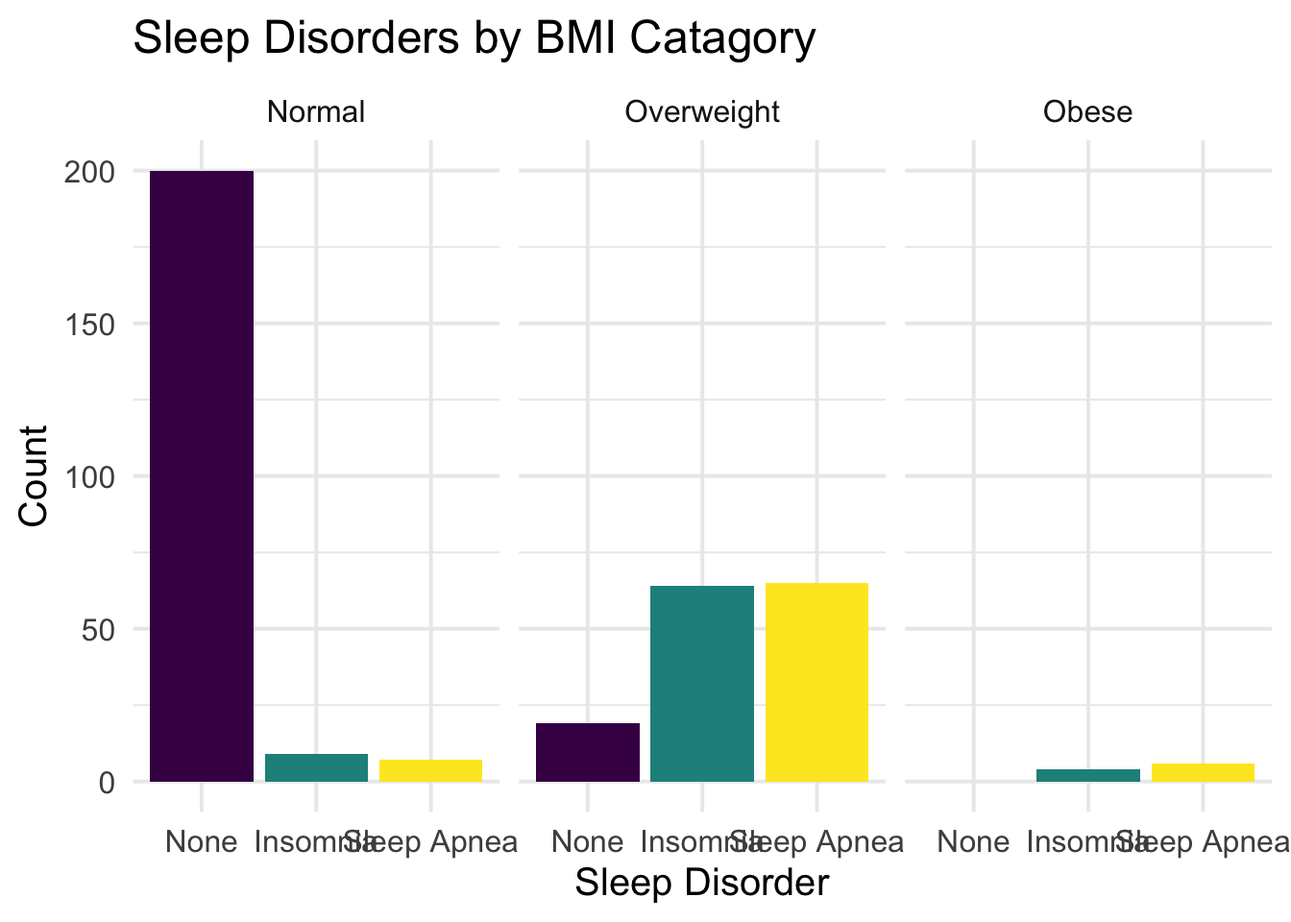
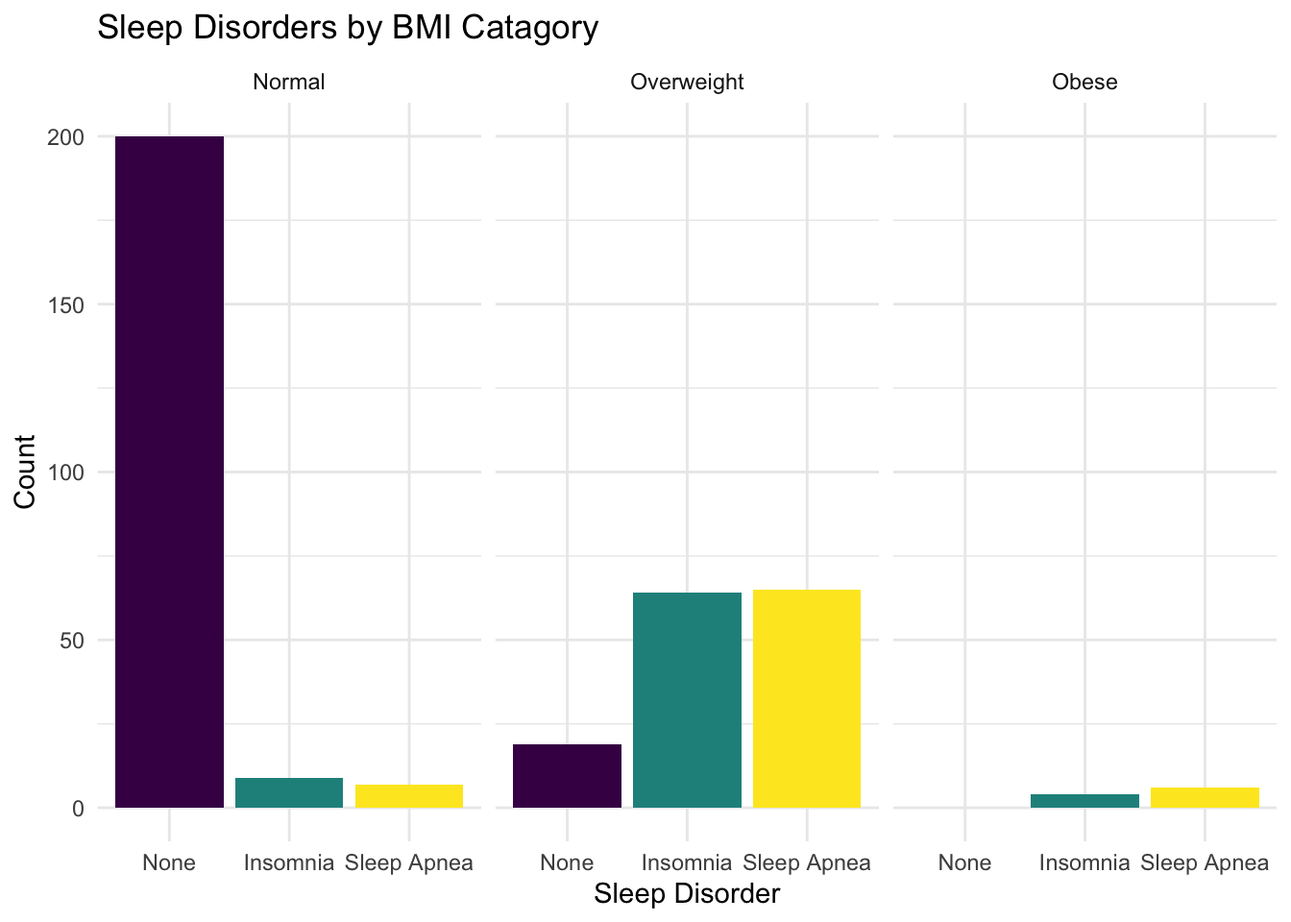
cleaned up some of the sizing/formatting/ coloring/

diff --git a/docs/posts/blog-post-final/index.html b/docs/posts/blog-post-final/index.html
@@ -295,19 +295,9 @@ pre > code.sourceCode > span > a:first-child::before { text-decoration: underlin
 <span id="cb2-32"><a href="#cb2-32" aria-hidden="true" tabindex="-1"></a>  </span>
 <span id="cb2-33"><a href="#cb2-33" aria-hidden="true" tabindex="-1"></a></span>
 <span id="cb2-34"><a href="#cb2-34" aria-hidden="true" tabindex="-1"></a><span class="fu">ggplotly</span>(sleep_vs_stress, <span class="at">tooltip =</span> <span class="st">"label"</span>)</span></code></pre></div><button title="Copy to Clipboard" class="code-copy-button"><i class="bi"></i></button></div>
-<div class="cell-output cell-output-stderr">
-<pre><code>`geom_smooth()` using formula = 'y ~ x'</code></pre>
-</div>
-<div class="cell-output cell-output-stderr">
-<pre><code>Warning: The following aesthetics were dropped during statistical transformation: label.
-ℹ This can happen when ggplot fails to infer the correct grouping structure in
-  the data.
-ℹ Did you forget to specify a `group` aesthetic or to convert a numerical
-  variable into a factor?</code></pre>
-</div>
 <div class="cell-output-display">
-<div class="plotly html-widget html-fill-item" id="htmlwidget-b2c313d36b822bd75aa4" style="width:100%;height:464px;"></div>
-<script type="application/json" data-for="htmlwidget-b2c313d36b822bd75aa4">{"x":{"data":[{"x":[7.1135135135135137],"y":[4.5945945945945947],"text":"Occupation: Accountant","type":"scatter","mode":"markers","marker":{"autocolorscale":false,"color":"rgba(166,206,227,1)","opacity":1,"size":15.118110236220474,"symbol":"circle","line":{"width":1.8897637795275593,"color":"rgba(166,206,227,1)"}},"hoveron":"points","name":"Accountant","legendgroup":"Accountant","showlegend":true,"xaxis":"x","yaxis":"y","hoverinfo":"text","frame":null},{"x":[6.9704225352112674],"y":[6.732394366197183],"text":"Occupation: Doctor","type":"scatter","mode":"markers","marker":{"autocolorscale":false,"color":"rgba(31,120,180,1)","opacity":1,"size":15.118110236220474,"symbol":"circle","line":{"width":1.8897637795275593,"color":"rgba(31,120,180,1)"}},"hoveron":"points","name":"Doctor","legendgroup":"Doctor","showlegend":true,"xaxis":"x","yaxis":"y","hoverinfo":"text","frame":null},{"x":[7.9873015873015873],"y":[3.8888888888888884],"text":"Occupation: Engineer","type":"scatter","mode":"markers","marker":{"autocolorscale":false,"color":"rgba(178,223,138,1)","opacity":1,"size":15.118110236220474,"symbol":"circle","line":{"width":1.8897637795275593,"color":"rgba(178,223,138,1)"}},"hoveron":"points","name":"Engineer","legendgroup":"Engineer","showlegend":true,"xaxis":"x","yaxis":"y","hoverinfo":"text","frame":null},{"x":[7.4106382978723406],"y":[5.0638297872340425],"text":"Occupation: Lawyer","type":"scatter","mode":"markers","marker":{"autocolorscale":false,"color":"rgba(51,160,44,1)","opacity":1,"size":15.118110236220474,"symbol":"circle","line":{"width":1.8897637795275593,"color":"rgba(51,160,44,1)"}},"hoveron":"points","name":"Lawyer","legendgroup":"Lawyer","showlegend":true,"xaxis":"x","yaxis":"y","hoverinfo":"text","frame":null},{"x":[6.9000000000000004],"y":[5],"text":"Occupation: Manager","type":"scatter","mode":"markers","marker":{"autocolorscale":false,"color":"rgba(251,154,153,1)","opacity":1,"size":15.118110236220474,"symbol":"circle","line":{"width":1.8897637795275593,"color":"rgba(251,154,153,1)"}},"hoveron":"points","name":"Manager","legendgroup":"Manager","showlegend":true,"xaxis":"x","yaxis":"y","hoverinfo":"text","frame":null},{"x":[7.0630136986301366],"y":[5.5479452054794534],"text":"Occupation: Nurse","type":"scatter","mode":"markers","marker":{"autocolorscale":false,"color":"rgba(227,26,28,1)","opacity":1,"size":15.118110236220474,"symbol":"circle","line":{"width":1.8897637795275593,"color":"rgba(227,26,28,1)"}},"hoveron":"points","name":"Nurse","legendgroup":"Nurse","showlegend":true,"xaxis":"x","yaxis":"y","hoverinfo":"text","frame":null},{"x":[6.3735294117647063],"y":[7.0588235294117645],"text":"Occupation: Salesperson","type":"scatter","mode":"markers","marker":{"autocolorscale":false,"color":"rgba(253,191,111,1)","opacity":1,"size":15.118110236220474,"symbol":"circle","line":{"width":1.8897637795275593,"color":"rgba(253,191,111,1)"}},"hoveron":"points","name":"Salesperson","legendgroup":"Salesperson","showlegend":true,"xaxis":"x","yaxis":"y","hoverinfo":"text","frame":null},{"x":[6],"y":[7],"text":"Occupation: Scientist","type":"scatter","mode":"markers","marker":{"autocolorscale":false,"color":"rgba(255,127,0,1)","opacity":1,"size":15.118110236220474,"symbol":"circle","line":{"width":1.8897637795275593,"color":"rgba(255,127,0,1)"}},"hoveron":"points","name":"Scientist","legendgroup":"Scientist","showlegend":true,"xaxis":"x","yaxis":"y","hoverinfo":"text","frame":null},{"x":[6.75],"y":[6],"text":"Occupation: Software Engineer","type":"scatter","mode":"markers","marker":{"autocolorscale":false,"color":"rgba(202,178,214,1)","opacity":1,"size":15.118110236220474,"symbol":"circle","line":{"width":1.8897637795275593,"color":"rgba(202,178,214,1)"}},"hoveron":"points","name":"Software Engineer","legendgroup":"Software Engineer","showlegend":true,"xaxis":"x","yaxis":"y","hoverinfo":"text","frame":null},{"x":[6.6899999999999995],"y":[4.5250000000000004],"text":"Occupation: Teacher","type":"scatter","mode":"markers","marker":{"autocolorscale":false,"color":"rgba(106,61,154,1)","opacity":1,"size":15.118110236220474,"symbol":"circle","line":{"width":1.8897637795275593,"color":"rgba(106,61,154,1)"}},"hoveron":"points","name":"Teacher","legendgroup":"Teacher","showlegend":true,"xaxis":"x","yaxis":"y","hoverinfo":"text","frame":null},{"x":[5.7999999999999998,5.8341772151898734,5.868354430379747,5.9025316455696197,5.9367088607594933,5.9708860759493669,6.0050632911392405,6.0392405063291141,6.0734177215189868,6.1075949367088604,6.141772151898734,6.1759493670886076,6.2101265822784812,6.244303797468354,6.2784810126582276,6.3126582278481012,6.3468354430379748,6.3810126582278475,6.4151898734177211,6.4493670886075947,6.4835443037974683,6.5177215189873419,6.5518987341772146,6.5860759493670882,6.6202531645569618,6.6544303797468354,6.688607594936709,6.7227848101265817,6.7569620253164553,6.7911392405063289,6.8253164556962025,6.8594936708860761,6.8936708860759488,6.9278481012658224,6.962025316455696,6.9962025316455696,7.0303797468354432,7.0645569620253159,7.0987341772151895,7.1329113924050631,7.1670886075949367,7.2012658227848103,7.235443037974683,7.2696202531645566,7.3037974683544302,7.3379746835443038,7.3721518987341774,7.4063291139240501,7.4405063291139237,7.4746835443037973,7.5088607594936709,7.5430379746835445,7.5772151898734172,7.6113924050632908,7.6455696202531644,7.679746835443038,7.7139240506329116,7.7481012658227844,7.782278481012658,7.8164556962025316,7.8506329113924052,7.8848101265822788,7.9189873417721515,7.9531645569620251,7.9873417721518987,8.0215189873417714,8.0556962025316459,8.0898734177215186,8.1240506329113913,8.1582278481012658,8.1924050632911403,8.226582278481013,8.2607594936708857,8.2949367088607602,8.3291139240506329,8.3632911392405056,8.3974683544303801,8.4316455696202528,8.4658227848101255,8.5],"y":[7.7944996109358282,7.7326799536601918,7.6708602963845554,7.6090406391089225,7.547220981833286,7.4854013245576514,7.423581667282015,7.3617620100063803,7.2999423527307457,7.2381226954551092,7.1763030381794746,7.1144833809038381,7.0526637236282035,6.9908440663525688,6.9290244090769342,6.8672047518012977,6.8053850945256631,6.7435654372500284,6.681745779974392,6.6199261226987574,6.5581064654231209,6.4962868081474863,6.4344671508718516,6.372647493596217,6.3108278363205805,6.2490081790449441,6.1871885217693094,6.1253688644936748,6.0635492072180401,6.0017295499424037,5.9399098926667691,5.8780902353911326,5.816270578115498,5.7544509208398633,5.6926312635642269,5.6308116062885922,5.5689919490129558,5.5071722917373229,5.4453526344616865,5.3835329771860518,5.3217133199104154,5.259893662634779,5.1980740053591461,5.1362543480835097,5.074434690807875,5.0126150335322386,4.9507953762566039,4.8889757189809693,4.8271560617053328,4.7653364044296982,4.7035167471540618,4.6416970898784271,4.5798774326027925,4.5180577753271578,4.4562381180515214,4.3944184607758867,4.3325988035002503,4.2707791462246156,4.208959488948981,4.1471398316733445,4.0853201743977099,4.0235005171220735,3.9616808598464406,3.8998612025708042,3.8380415452951677,3.7762218880195348,3.7144022307438966,3.6525825734682638,3.5907629161926291,3.5289432589169927,3.4671236016413545,3.4053039443657216,3.3434842870900869,3.2816646298144505,3.2198449725388159,3.1580253152631812,3.0962056579875448,3.0343860007119101,2.9725663434362772,2.910746686160639],"text":"","type":"scatter","mode":"lines","name":"fitted values","line":{"width":3.7795275590551185,"color":"rgba(229,229,229,1)","dash":"solid"},"hoveron":"points","showlegend":false,"xaxis":"x","yaxis":"y","hoverinfo":"text","frame":null}],"layout":{"margin":{"t":49.872976338729764,"r":9.9626400996264035,"b":50.809464508094649,"l":42.839352428393532},"paper_bgcolor":"rgba(255,255,255,1)","font":{"color":"rgba(0,0,0,1)","family":"","size":19.925280199252807},"title":{"text":"The Effects of Stress on Sleep by Occupation","font":{"color":"rgba(0,0,0,1)","family":"","size":23.910336239103362},"x":0,"xref":"paper"},"xaxis":{"domain":[0,1],"automargin":true,"type":"linear","autorange":false,"range":[5.665,8.6349999999999998],"tickmode":"array","ticktext":["6","7","8"],"tickvals":[6,7,8],"categoryorder":"array","categoryarray":["6","7","8"],"nticks":null,"ticks":"","tickcolor":null,"ticklen":4.9813200498132018,"tickwidth":0,"showticklabels":true,"tickfont":{"color":"rgba(77,77,77,1)","family":"","size":15.940224159402241},"tickangle":-0,"showline":false,"linecolor":null,"linewidth":0,"showgrid":true,"gridcolor":"rgba(235,235,235,1)","gridwidth":0.90569455451149117,"zeroline":false,"anchor":"y","title":{"text":"Average Sleep Duration","font":{"color":"rgba(0,0,0,1)","family":"","size":19.925280199252807}},"hoverformat":".2f"},"yaxis":{"domain":[0,1],"automargin":true,"type":"linear","autorange":false,"range":[2.6665590399218795,8.0386872571745869],"tickmode":"array","ticktext":["3","4","5","6","7","8"],"tickvals":[3,4,5,6,7,8],"categoryorder":"array","categoryarray":["3","4","5","6","7","8"],"nticks":null,"ticks":"","tickcolor":null,"ticklen":4.9813200498132018,"tickwidth":0,"showticklabels":true,"tickfont":{"color":"rgba(77,77,77,1)","family":"","size":15.940224159402243},"tickangle":-0,"showline":false,"linecolor":null,"linewidth":0,"showgrid":true,"gridcolor":"rgba(235,235,235,1)","gridwidth":0.90569455451149117,"zeroline":false,"anchor":"x","title":{"text":"Average Stress Level","font":{"color":"rgba(0,0,0,1)","family":"","size":19.925280199252807}},"hoverformat":".2f"},"shapes":[],"showlegend":false,"legend":{"bgcolor":null,"bordercolor":null,"borderwidth":0,"font":{"color":"rgba(0,0,0,1)","family":"","size":15.940224159402241}},"hovermode":"closest","barmode":"relative"},"config":{"doubleClick":"reset","modeBarButtonsToAdd":["hoverclosest","hovercompare"],"showSendToCloud":false},"source":"A","attrs":{"1c8a779f4bdd":{"x":{},"y":{},"label":{},"colour":{},"type":"scatter"},"1c8a7b2dd785":{"x":{},"y":{},"label":{},"colour":{}}},"cur_data":"1c8a779f4bdd","visdat":{"1c8a779f4bdd":["function (y) ","x"],"1c8a7b2dd785":["function (y) ","x"]},"highlight":{"on":"plotly_click","persistent":false,"dynamic":false,"selectize":false,"opacityDim":0.20000000000000001,"selected":{"opacity":1},"debounce":0},"shinyEvents":["plotly_hover","plotly_click","plotly_selected","plotly_relayout","plotly_brushed","plotly_brushing","plotly_clickannotation","plotly_doubleclick","plotly_deselect","plotly_afterplot","plotly_sunburstclick"],"base_url":"https://plot.ly"},"evals":[],"jsHooks":[]}</script>
+<div class="plotly html-widget html-fill-item" id="htmlwidget-bc48e4e5059e58ecbe73" style="width:100%;height:464px;"></div>
+<script type="application/json" data-for="htmlwidget-bc48e4e5059e58ecbe73">{"x":{"data":[{"x":[7.1135135135135137],"y":[4.5945945945945947],"text":"Occupation: Accountant","type":"scatter","mode":"markers","marker":{"autocolorscale":false,"color":"rgba(166,206,227,1)","opacity":1,"size":15.118110236220474,"symbol":"circle","line":{"width":1.8897637795275593,"color":"rgba(166,206,227,1)"}},"hoveron":"points","name":"Accountant","legendgroup":"Accountant","showlegend":true,"xaxis":"x","yaxis":"y","hoverinfo":"text","frame":null},{"x":[6.9704225352112674],"y":[6.732394366197183],"text":"Occupation: Doctor","type":"scatter","mode":"markers","marker":{"autocolorscale":false,"color":"rgba(31,120,180,1)","opacity":1,"size":15.118110236220474,"symbol":"circle","line":{"width":1.8897637795275593,"color":"rgba(31,120,180,1)"}},"hoveron":"points","name":"Doctor","legendgroup":"Doctor","showlegend":true,"xaxis":"x","yaxis":"y","hoverinfo":"text","frame":null},{"x":[7.9873015873015873],"y":[3.8888888888888884],"text":"Occupation: Engineer","type":"scatter","mode":"markers","marker":{"autocolorscale":false,"color":"rgba(178,223,138,1)","opacity":1,"size":15.118110236220474,"symbol":"circle","line":{"width":1.8897637795275593,"color":"rgba(178,223,138,1)"}},"hoveron":"points","name":"Engineer","legendgroup":"Engineer","showlegend":true,"xaxis":"x","yaxis":"y","hoverinfo":"text","frame":null},{"x":[7.4106382978723406],"y":[5.0638297872340425],"text":"Occupation: Lawyer","type":"scatter","mode":"markers","marker":{"autocolorscale":false,"color":"rgba(51,160,44,1)","opacity":1,"size":15.118110236220474,"symbol":"circle","line":{"width":1.8897637795275593,"color":"rgba(51,160,44,1)"}},"hoveron":"points","name":"Lawyer","legendgroup":"Lawyer","showlegend":true,"xaxis":"x","yaxis":"y","hoverinfo":"text","frame":null},{"x":[6.9000000000000004],"y":[5],"text":"Occupation: Manager","type":"scatter","mode":"markers","marker":{"autocolorscale":false,"color":"rgba(251,154,153,1)","opacity":1,"size":15.118110236220474,"symbol":"circle","line":{"width":1.8897637795275593,"color":"rgba(251,154,153,1)"}},"hoveron":"points","name":"Manager","legendgroup":"Manager","showlegend":true,"xaxis":"x","yaxis":"y","hoverinfo":"text","frame":null},{"x":[7.0630136986301366],"y":[5.5479452054794534],"text":"Occupation: Nurse","type":"scatter","mode":"markers","marker":{"autocolorscale":false,"color":"rgba(227,26,28,1)","opacity":1,"size":15.118110236220474,"symbol":"circle","line":{"width":1.8897637795275593,"color":"rgba(227,26,28,1)"}},"hoveron":"points","name":"Nurse","legendgroup":"Nurse","showlegend":true,"xaxis":"x","yaxis":"y","hoverinfo":"text","frame":null},{"x":[6.3735294117647063],"y":[7.0588235294117645],"text":"Occupation: Salesperson","type":"scatter","mode":"markers","marker":{"autocolorscale":false,"color":"rgba(253,191,111,1)","opacity":1,"size":15.118110236220474,"symbol":"circle","line":{"width":1.8897637795275593,"color":"rgba(253,191,111,1)"}},"hoveron":"points","name":"Salesperson","legendgroup":"Salesperson","showlegend":true,"xaxis":"x","yaxis":"y","hoverinfo":"text","frame":null},{"x":[6],"y":[7],"text":"Occupation: Scientist","type":"scatter","mode":"markers","marker":{"autocolorscale":false,"color":"rgba(255,127,0,1)","opacity":1,"size":15.118110236220474,"symbol":"circle","line":{"width":1.8897637795275593,"color":"rgba(255,127,0,1)"}},"hoveron":"points","name":"Scientist","legendgroup":"Scientist","showlegend":true,"xaxis":"x","yaxis":"y","hoverinfo":"text","frame":null},{"x":[6.75],"y":[6],"text":"Occupation: Software Engineer","type":"scatter","mode":"markers","marker":{"autocolorscale":false,"color":"rgba(202,178,214,1)","opacity":1,"size":15.118110236220474,"symbol":"circle","line":{"width":1.8897637795275593,"color":"rgba(202,178,214,1)"}},"hoveron":"points","name":"Software Engineer","legendgroup":"Software Engineer","showlegend":true,"xaxis":"x","yaxis":"y","hoverinfo":"text","frame":null},{"x":[6.6899999999999995],"y":[4.5250000000000004],"text":"Occupation: Teacher","type":"scatter","mode":"markers","marker":{"autocolorscale":false,"color":"rgba(106,61,154,1)","opacity":1,"size":15.118110236220474,"symbol":"circle","line":{"width":1.8897637795275593,"color":"rgba(106,61,154,1)"}},"hoveron":"points","name":"Teacher","legendgroup":"Teacher","showlegend":true,"xaxis":"x","yaxis":"y","hoverinfo":"text","frame":null},{"x":[5.7999999999999998,5.8341772151898734,5.868354430379747,5.9025316455696197,5.9367088607594933,5.9708860759493669,6.0050632911392405,6.0392405063291141,6.0734177215189868,6.1075949367088604,6.141772151898734,6.1759493670886076,6.2101265822784812,6.244303797468354,6.2784810126582276,6.3126582278481012,6.3468354430379748,6.3810126582278475,6.4151898734177211,6.4493670886075947,6.4835443037974683,6.5177215189873419,6.5518987341772146,6.5860759493670882,6.6202531645569618,6.6544303797468354,6.688607594936709,6.7227848101265817,6.7569620253164553,6.7911392405063289,6.8253164556962025,6.8594936708860761,6.8936708860759488,6.9278481012658224,6.962025316455696,6.9962025316455696,7.0303797468354432,7.0645569620253159,7.0987341772151895,7.1329113924050631,7.1670886075949367,7.2012658227848103,7.235443037974683,7.2696202531645566,7.3037974683544302,7.3379746835443038,7.3721518987341774,7.4063291139240501,7.4405063291139237,7.4746835443037973,7.5088607594936709,7.5430379746835445,7.5772151898734172,7.6113924050632908,7.6455696202531644,7.679746835443038,7.7139240506329116,7.7481012658227844,7.782278481012658,7.8164556962025316,7.8506329113924052,7.8848101265822788,7.9189873417721515,7.9531645569620251,7.9873417721518987,8.0215189873417714,8.0556962025316459,8.0898734177215186,8.1240506329113913,8.1582278481012658,8.1924050632911403,8.226582278481013,8.2607594936708857,8.2949367088607602,8.3291139240506329,8.3632911392405056,8.3974683544303801,8.4316455696202528,8.4658227848101255,8.5],"y":[7.7944996109358282,7.7326799536601918,7.6708602963845554,7.6090406391089225,7.547220981833286,7.4854013245576514,7.423581667282015,7.3617620100063803,7.2999423527307457,7.2381226954551092,7.1763030381794746,7.1144833809038381,7.0526637236282035,6.9908440663525688,6.9290244090769342,6.8672047518012977,6.8053850945256631,6.7435654372500284,6.681745779974392,6.6199261226987574,6.5581064654231209,6.4962868081474863,6.4344671508718516,6.372647493596217,6.3108278363205805,6.2490081790449441,6.1871885217693094,6.1253688644936748,6.0635492072180401,6.0017295499424037,5.9399098926667691,5.8780902353911326,5.816270578115498,5.7544509208398633,5.6926312635642269,5.6308116062885922,5.5689919490129558,5.5071722917373229,5.4453526344616865,5.3835329771860518,5.3217133199104154,5.259893662634779,5.1980740053591461,5.1362543480835097,5.074434690807875,5.0126150335322386,4.9507953762566039,4.8889757189809693,4.8271560617053328,4.7653364044296982,4.7035167471540618,4.6416970898784271,4.5798774326027925,4.5180577753271578,4.4562381180515214,4.3944184607758867,4.3325988035002503,4.2707791462246156,4.208959488948981,4.1471398316733445,4.0853201743977099,4.0235005171220735,3.9616808598464406,3.8998612025708042,3.8380415452951677,3.7762218880195348,3.7144022307438966,3.6525825734682638,3.5907629161926291,3.5289432589169927,3.4671236016413545,3.4053039443657216,3.3434842870900869,3.2816646298144505,3.2198449725388159,3.1580253152631812,3.0962056579875448,3.0343860007119101,2.9725663434362772,2.910746686160639],"text":"","type":"scatter","mode":"lines","name":"fitted values","line":{"width":3.7795275590551185,"color":"rgba(229,229,229,1)","dash":"solid"},"hoveron":"points","showlegend":false,"xaxis":"x","yaxis":"y","hoverinfo":"text","frame":null}],"layout":{"margin":{"t":49.872976338729764,"r":9.9626400996264035,"b":50.809464508094649,"l":42.839352428393532},"paper_bgcolor":"rgba(255,255,255,1)","font":{"color":"rgba(0,0,0,1)","family":"","size":19.925280199252807},"title":{"text":"The Effects of Stress on Sleep by Occupation","font":{"color":"rgba(0,0,0,1)","family":"","size":23.910336239103362},"x":0,"xref":"paper"},"xaxis":{"domain":[0,1],"automargin":true,"type":"linear","autorange":false,"range":[5.665,8.6349999999999998],"tickmode":"array","ticktext":["6","7","8"],"tickvals":[6,7,8],"categoryorder":"array","categoryarray":["6","7","8"],"nticks":null,"ticks":"","tickcolor":null,"ticklen":4.9813200498132018,"tickwidth":0,"showticklabels":true,"tickfont":{"color":"rgba(77,77,77,1)","family":"","size":15.940224159402241},"tickangle":-0,"showline":false,"linecolor":null,"linewidth":0,"showgrid":true,"gridcolor":"rgba(235,235,235,1)","gridwidth":0.90569455451149117,"zeroline":false,"anchor":"y","title":{"text":"Average Sleep Duration","font":{"color":"rgba(0,0,0,1)","family":"","size":19.925280199252807}},"hoverformat":".2f"},"yaxis":{"domain":[0,1],"automargin":true,"type":"linear","autorange":false,"range":[2.6665590399218795,8.0386872571745869],"tickmode":"array","ticktext":["3","4","5","6","7","8"],"tickvals":[3,4,5,6,7,8],"categoryorder":"array","categoryarray":["3","4","5","6","7","8"],"nticks":null,"ticks":"","tickcolor":null,"ticklen":4.9813200498132018,"tickwidth":0,"showticklabels":true,"tickfont":{"color":"rgba(77,77,77,1)","family":"","size":15.940224159402243},"tickangle":-0,"showline":false,"linecolor":null,"linewidth":0,"showgrid":true,"gridcolor":"rgba(235,235,235,1)","gridwidth":0.90569455451149117,"zeroline":false,"anchor":"x","title":{"text":"Average Stress Level","font":{"color":"rgba(0,0,0,1)","family":"","size":19.925280199252807}},"hoverformat":".2f"},"shapes":[],"showlegend":false,"legend":{"bgcolor":null,"bordercolor":null,"borderwidth":0,"font":{"color":"rgba(0,0,0,1)","family":"","size":15.940224159402241}},"hovermode":"closest","barmode":"relative"},"config":{"doubleClick":"reset","modeBarButtonsToAdd":["hoverclosest","hovercompare"],"showSendToCloud":false},"source":"A","attrs":{"2c406fea4b70":{"x":{},"y":{},"label":{},"colour":{},"type":"scatter"},"2c407efedf76":{"x":{},"y":{},"label":{},"colour":{}}},"cur_data":"2c406fea4b70","visdat":{"2c406fea4b70":["function (y) ","x"],"2c407efedf76":["function (y) ","x"]},"highlight":{"on":"plotly_click","persistent":false,"dynamic":false,"selectize":false,"opacityDim":0.20000000000000001,"selected":{"opacity":1},"debounce":0},"shinyEvents":["plotly_hover","plotly_click","plotly_selected","plotly_relayout","plotly_brushed","plotly_brushing","plotly_clickannotation","plotly_doubleclick","plotly_deselect","plotly_afterplot","plotly_sunburstclick"],"base_url":"https://plot.ly"},"evals":[],"jsHooks":[]}</script>
 </div>
 </div>
 <p><strong>Interpretation:</strong> This scatterplot examines the relationship between average sleep duration and average stress level across occupations. Each point represents an occupation, and the downward trend line shows a negative correlation between the two variables. Occupations with higher average sleep tend to report lower stress, while occupations with less sleep tend to report higher stress. Although this does not prove that sleep directly reduces stress, the graph suggests that sleep duration may be an important factor associated with perceived stress levels. A scatterplot was used because it is the most effective way to visualize the relationship between these two quantitative variables, making it easy to identify trends between average sleep duration and stress across occupations.</p>
@@ -315,18 +305,18 @@ pre > code.sourceCode > span > a:first-child::before { text-decoration: underlin
 <section id="sleep-disorders-by-bmi-category" class="level3">
 <h3 class="anchored" data-anchor-id="sleep-disorders-by-bmi-category">Sleep Disorders by BMI Category</h3>
 <div class="cell">
-<div class="code-copy-outer-scaffold"><div class="sourceCode cell-code" id="cb5"><pre class="sourceCode r code-with-copy"><code class="sourceCode r"><span id="cb5-1"><a href="#cb5-1" aria-hidden="true" tabindex="-1"></a><span class="fu">ggplot</span>(<span class="at">data =</span> sleep, </span>
-<span id="cb5-2"><a href="#cb5-2" aria-hidden="true" tabindex="-1"></a>       <span class="fu">aes</span>(<span class="at">x =</span> sleep_disorder, </span>
-<span id="cb5-3"><a href="#cb5-3" aria-hidden="true" tabindex="-1"></a>           <span class="at">fill =</span> sleep_disorder))<span class="sc">+</span></span>
-<span id="cb5-4"><a href="#cb5-4" aria-hidden="true" tabindex="-1"></a>  <span class="fu">geom_bar</span>()<span class="sc">+</span></span>
-<span id="cb5-5"><a href="#cb5-5" aria-hidden="true" tabindex="-1"></a>  <span class="fu">facet_grid</span>(<span class="sc">~</span>bmi_category)<span class="sc">+</span></span>
-<span id="cb5-6"><a href="#cb5-6" aria-hidden="true" tabindex="-1"></a>  <span class="fu">theme_minimal</span>(<span class="at">base_size =</span> <span class="dv">15</span>)<span class="sc">+</span></span>
-<span id="cb5-7"><a href="#cb5-7" aria-hidden="true" tabindex="-1"></a>  <span class="fu">theme</span>(<span class="at">legend.position =</span> <span class="st">"none"</span>)<span class="sc">+</span></span>
-<span id="cb5-8"><a href="#cb5-8" aria-hidden="true" tabindex="-1"></a>  <span class="fu">scale_fill_viridis_d</span>()<span class="sc">+</span></span>
-<span id="cb5-9"><a href="#cb5-9" aria-hidden="true" tabindex="-1"></a>  <span class="fu">labs</span>(</span>
-<span id="cb5-10"><a href="#cb5-10" aria-hidden="true" tabindex="-1"></a>    <span class="at">title =</span> <span class="st">"Sleep Disorders by BMI Catagory"</span>,</span>
-<span id="cb5-11"><a href="#cb5-11" aria-hidden="true" tabindex="-1"></a>    <span class="at">x =</span> <span class="st">"Sleep Disorder"</span>,</span>
-<span id="cb5-12"><a href="#cb5-12" aria-hidden="true" tabindex="-1"></a>    <span class="at">y =</span> <span class="st">"Count"</span>)</span></code></pre></div><button title="Copy to Clipboard" class="code-copy-button"><i class="bi"></i></button></div>
+<div class="code-copy-outer-scaffold"><div class="sourceCode cell-code" id="cb3"><pre class="sourceCode r code-with-copy"><code class="sourceCode r"><span id="cb3-1"><a href="#cb3-1" aria-hidden="true" tabindex="-1"></a><span class="fu">ggplot</span>(<span class="at">data =</span> sleep, </span>
+<span id="cb3-2"><a href="#cb3-2" aria-hidden="true" tabindex="-1"></a>       <span class="fu">aes</span>(<span class="at">x =</span> sleep_disorder, </span>
+<span id="cb3-3"><a href="#cb3-3" aria-hidden="true" tabindex="-1"></a>           <span class="at">fill =</span> sleep_disorder))<span class="sc">+</span></span>
+<span id="cb3-4"><a href="#cb3-4" aria-hidden="true" tabindex="-1"></a>  <span class="fu">geom_bar</span>()<span class="sc">+</span></span>
+<span id="cb3-5"><a href="#cb3-5" aria-hidden="true" tabindex="-1"></a>  <span class="fu">facet_grid</span>(<span class="sc">~</span>bmi_category)<span class="sc">+</span></span>
+<span id="cb3-6"><a href="#cb3-6" aria-hidden="true" tabindex="-1"></a>  <span class="fu">theme_minimal</span>(<span class="at">base_size =</span> <span class="dv">11</span>)<span class="sc">+</span></span>
+<span id="cb3-7"><a href="#cb3-7" aria-hidden="true" tabindex="-1"></a>  <span class="fu">theme</span>(<span class="at">legend.position =</span> <span class="st">"none"</span>)<span class="sc">+</span></span>
+<span id="cb3-8"><a href="#cb3-8" aria-hidden="true" tabindex="-1"></a>  <span class="fu">scale_fill_viridis_d</span>()<span class="sc">+</span></span>
+<span id="cb3-9"><a href="#cb3-9" aria-hidden="true" tabindex="-1"></a>  <span class="fu">labs</span>(</span>
+<span id="cb3-10"><a href="#cb3-10" aria-hidden="true" tabindex="-1"></a>    <span class="at">title =</span> <span class="st">"Sleep Disorders by BMI Catagory"</span>,</span>
+<span id="cb3-11"><a href="#cb3-11" aria-hidden="true" tabindex="-1"></a>    <span class="at">x =</span> <span class="st">"Sleep Disorder"</span>,</span>
+<span id="cb3-12"><a href="#cb3-12" aria-hidden="true" tabindex="-1"></a>    <span class="at">y =</span> <span class="st">"Count"</span>)</span></code></pre></div><button title="Copy to Clipboard" class="code-copy-button"><i class="bi"></i></button></div>
 <div class="cell-output-display">
 <div>
 <figure class="figure">
@@ -341,20 +331,20 @@ pre > code.sourceCode > span > a:first-child::before { text-decoration: underlin
 <section id="sleep-disorder-by-occupation" class="level2">
 <h2 class="anchored" data-anchor-id="sleep-disorder-by-occupation">Sleep Disorder by Occupation</h2>
 <div class="cell">
-<div class="code-copy-outer-scaffold"><div class="sourceCode cell-code" id="cb6"><pre class="sourceCode r code-with-copy"><code class="sourceCode r"><span id="cb6-1"><a href="#cb6-1" aria-hidden="true" tabindex="-1"></a>sleep <span class="sc">|&gt;</span></span>
-<span id="cb6-2"><a href="#cb6-2" aria-hidden="true" tabindex="-1"></a>  <span class="fu">filter</span>(Occupation <span class="sc">!=</span> <span class="st">"Manager"</span> <span class="sc">&amp;</span> Occupation <span class="sc">!=</span> <span class="st">"Software Engineer"</span> <span class="sc">&amp;</span> Occupation <span class="sc">!=</span> <span class="st">"Scientist"</span>)<span class="sc">|&gt;</span></span>
-<span id="cb6-3"><a href="#cb6-3" aria-hidden="true" tabindex="-1"></a>  <span class="fu">ggplot</span>(<span class="fu">aes</span>(<span class="at">x =</span> sleep_disorder,</span>
-<span id="cb6-4"><a href="#cb6-4" aria-hidden="true" tabindex="-1"></a>             <span class="at">fill =</span> sleep_disorder)) <span class="sc">+</span></span>
-<span id="cb6-5"><a href="#cb6-5" aria-hidden="true" tabindex="-1"></a>  <span class="fu">geom_bar</span>(<span class="at">alpha =</span> <span class="fl">0.7</span>) <span class="sc">+</span></span>
-<span id="cb6-6"><a href="#cb6-6" aria-hidden="true" tabindex="-1"></a>  <span class="fu">facet_wrap</span>(<span class="sc">~</span>Occupation) <span class="sc">+</span></span>
-<span id="cb6-7"><a href="#cb6-7" aria-hidden="true" tabindex="-1"></a>  <span class="fu">theme_minimal</span>(<span class="at">base_size =</span> <span class="dv">15</span>) <span class="sc">+</span></span>
-<span id="cb6-8"><a href="#cb6-8" aria-hidden="true" tabindex="-1"></a>  <span class="fu">theme</span>(<span class="at">legend.position =</span> <span class="st">"none"</span>) <span class="sc">+</span></span>
-<span id="cb6-9"><a href="#cb6-9" aria-hidden="true" tabindex="-1"></a>  <span class="fu">scale_fill_viridis_d</span>()<span class="sc">+</span></span>
-<span id="cb6-10"><a href="#cb6-10" aria-hidden="true" tabindex="-1"></a>  <span class="fu">labs</span>(</span>
-<span id="cb6-11"><a href="#cb6-11" aria-hidden="true" tabindex="-1"></a>    <span class="at">title =</span> <span class="st">"Sleep Disorders by Occupation"</span>,</span>
-<span id="cb6-12"><a href="#cb6-12" aria-hidden="true" tabindex="-1"></a>    <span class="at">x =</span> <span class="st">"Sleep Disorder"</span>,</span>
-<span id="cb6-13"><a href="#cb6-13" aria-hidden="true" tabindex="-1"></a>    <span class="at">y =</span> <span class="st">"Count"</span></span>
-<span id="cb6-14"><a href="#cb6-14" aria-hidden="true" tabindex="-1"></a>  )</span></code></pre></div><button title="Copy to Clipboard" class="code-copy-button"><i class="bi"></i></button></div>
+<div class="code-copy-outer-scaffold"><div class="sourceCode cell-code" id="cb4"><pre class="sourceCode r code-with-copy"><code class="sourceCode r"><span id="cb4-1"><a href="#cb4-1" aria-hidden="true" tabindex="-1"></a>sleep <span class="sc">|&gt;</span></span>
+<span id="cb4-2"><a href="#cb4-2" aria-hidden="true" tabindex="-1"></a>  <span class="fu">filter</span>(Occupation <span class="sc">!=</span> <span class="st">"Manager"</span> <span class="sc">&amp;</span> Occupation <span class="sc">!=</span> <span class="st">"Software Engineer"</span> <span class="sc">&amp;</span> Occupation <span class="sc">!=</span> <span class="st">"Scientist"</span>)<span class="sc">|&gt;</span></span>
+<span id="cb4-3"><a href="#cb4-3" aria-hidden="true" tabindex="-1"></a>  <span class="fu">ggplot</span>(<span class="fu">aes</span>(<span class="at">x =</span> sleep_disorder,</span>
+<span id="cb4-4"><a href="#cb4-4" aria-hidden="true" tabindex="-1"></a>             <span class="at">fill =</span> sleep_disorder)) <span class="sc">+</span></span>
+<span id="cb4-5"><a href="#cb4-5" aria-hidden="true" tabindex="-1"></a>  <span class="fu">geom_bar</span>() <span class="sc">+</span></span>
+<span id="cb4-6"><a href="#cb4-6" aria-hidden="true" tabindex="-1"></a>  <span class="fu">facet_wrap</span>(<span class="sc">~</span>Occupation) <span class="sc">+</span></span>
+<span id="cb4-7"><a href="#cb4-7" aria-hidden="true" tabindex="-1"></a>  <span class="fu">theme_minimal</span>(<span class="at">base_size =</span> <span class="dv">11</span>) <span class="sc">+</span></span>
+<span id="cb4-8"><a href="#cb4-8" aria-hidden="true" tabindex="-1"></a>  <span class="fu">theme</span>(<span class="at">legend.position =</span> <span class="st">"none"</span>) <span class="sc">+</span></span>
+<span id="cb4-9"><a href="#cb4-9" aria-hidden="true" tabindex="-1"></a>  <span class="fu">scale_fill_viridis_d</span>()<span class="sc">+</span></span>
+<span id="cb4-10"><a href="#cb4-10" aria-hidden="true" tabindex="-1"></a>  <span class="fu">labs</span>(</span>
+<span id="cb4-11"><a href="#cb4-11" aria-hidden="true" tabindex="-1"></a>    <span class="at">title =</span> <span class="st">"Sleep Disorders by Occupation"</span>,</span>
+<span id="cb4-12"><a href="#cb4-12" aria-hidden="true" tabindex="-1"></a>    <span class="at">x =</span> <span class="st">"Sleep Disorder"</span>,</span>
+<span id="cb4-13"><a href="#cb4-13" aria-hidden="true" tabindex="-1"></a>    <span class="at">y =</span> <span class="st">"Count"</span></span>
+<span id="cb4-14"><a href="#cb4-14" aria-hidden="true" tabindex="-1"></a>  )</span></code></pre></div><button title="Copy to Clipboard" class="code-copy-button"><i class="bi"></i></button></div>
 <div class="cell-output-display">
 <div>
 <figure class="figure">
@@ -363,22 +353,23 @@ pre > code.sourceCode > span > a:first-child::before { text-decoration: underlin
 </div>
 </div>
 </div>
-<p>Interpretation: This faceted bar graph shows that sleep disorder prevalence varies noticeably by occupation. Doctors, engineers, accountants, and lawyers most commonly report having no sleep disorder, while nurses show a very high rate of sleep apnea and teachers and salespeople have much higher counts of insomnia. This suggests occupation may be associated with different types of sleep issues, potentially due to varying stress levels, work schedules, or physical demands. Occupations Manager, scientist, and Software Engineer were removed due to small sample sizes and lowers the number of facets to 7. A faceted bar graph was appropriate here because it allows for quick comparisons of sleep disorder prevalence across multiple occupations without overcrowding a single graph.</p>
+<p><strong>Interpretation:</strong> This faceted bar graph shows that sleep disorder prevalence varies noticeably by occupation. Doctors, engineers, accountants, and lawyers most commonly report having no sleep disorder, while nurses show a very high rate of sleep apnea and teachers and salespeople have much higher counts of insomnia. This suggests occupation may be associated with different types of sleep issues, potentially due to varying stress levels, work schedules, or physical demands. Occupations Manager, scientist, and Software Engineer were removed due to small sample sizes and lowers the number of facets to 7. A faceted bar graph was appropriate here because it allows for quick comparisons of sleep disorder prevalence across multiple occupations without overcrowding a single graph.</p>
 <section id="sleep-duration-by-sleep-disorder" class="level3">
 <h3 class="anchored" data-anchor-id="sleep-duration-by-sleep-disorder">Sleep Duration by Sleep Disorder</h3>
 <div class="cell">
-<div class="code-copy-outer-scaffold"><div class="sourceCode cell-code" id="cb7"><pre class="sourceCode r code-with-copy"><code class="sourceCode r"><span id="cb7-1"><a href="#cb7-1" aria-hidden="true" tabindex="-1"></a>sleep <span class="sc">|&gt;</span></span>
-<span id="cb7-2"><a href="#cb7-2" aria-hidden="true" tabindex="-1"></a>  <span class="fu">ggplot</span>(<span class="fu">aes</span>(<span class="at">x =</span> sleep_disorder,</span>
-<span id="cb7-3"><a href="#cb7-3" aria-hidden="true" tabindex="-1"></a>             <span class="at">y =</span> sleep_duration,</span>
-<span id="cb7-4"><a href="#cb7-4" aria-hidden="true" tabindex="-1"></a>             <span class="at">fill =</span> sleep_disorder)) <span class="sc">+</span></span>
-<span id="cb7-5"><a href="#cb7-5" aria-hidden="true" tabindex="-1"></a>  <span class="fu">geom_boxplot</span>() <span class="sc">+</span></span>
-<span id="cb7-6"><a href="#cb7-6" aria-hidden="true" tabindex="-1"></a>  <span class="fu">theme_minimal</span>(<span class="at">base_size =</span> <span class="dv">15</span>) <span class="sc">+</span></span>
-<span id="cb7-7"><a href="#cb7-7" aria-hidden="true" tabindex="-1"></a>  <span class="fu">theme</span>(<span class="at">legend.position =</span> <span class="st">"none"</span>) <span class="sc">+</span></span>
-<span id="cb7-8"><a href="#cb7-8" aria-hidden="true" tabindex="-1"></a>  <span class="fu">labs</span>(</span>
-<span id="cb7-9"><a href="#cb7-9" aria-hidden="true" tabindex="-1"></a>    <span class="at">title =</span> <span class="st">"Sleep Duration by Sleep Disorder Status"</span>,</span>
-<span id="cb7-10"><a href="#cb7-10" aria-hidden="true" tabindex="-1"></a>    <span class="at">x =</span> <span class="st">"Sleep Disorder"</span>,</span>
-<span id="cb7-11"><a href="#cb7-11" aria-hidden="true" tabindex="-1"></a>    <span class="at">y =</span> <span class="st">"Sleep Duration"</span></span>
-<span id="cb7-12"><a href="#cb7-12" aria-hidden="true" tabindex="-1"></a>  )</span></code></pre></div><button title="Copy to Clipboard" class="code-copy-button"><i class="bi"></i></button></div>
+<div class="code-copy-outer-scaffold"><div class="sourceCode cell-code" id="cb5"><pre class="sourceCode r code-with-copy"><code class="sourceCode r"><span id="cb5-1"><a href="#cb5-1" aria-hidden="true" tabindex="-1"></a>sleep <span class="sc">|&gt;</span></span>
+<span id="cb5-2"><a href="#cb5-2" aria-hidden="true" tabindex="-1"></a>  <span class="fu">ggplot</span>(<span class="fu">aes</span>(<span class="at">x =</span> sleep_disorder,</span>
+<span id="cb5-3"><a href="#cb5-3" aria-hidden="true" tabindex="-1"></a>             <span class="at">y =</span> sleep_duration,</span>
+<span id="cb5-4"><a href="#cb5-4" aria-hidden="true" tabindex="-1"></a>             <span class="at">fill =</span> sleep_disorder)) <span class="sc">+</span></span>
+<span id="cb5-5"><a href="#cb5-5" aria-hidden="true" tabindex="-1"></a>  <span class="fu">geom_boxplot</span>() <span class="sc">+</span></span>
+<span id="cb5-6"><a href="#cb5-6" aria-hidden="true" tabindex="-1"></a>  <span class="fu">theme_minimal</span>(<span class="at">base_size =</span> <span class="dv">15</span>) <span class="sc">+</span></span>
+<span id="cb5-7"><a href="#cb5-7" aria-hidden="true" tabindex="-1"></a>  <span class="fu">theme</span>(<span class="at">legend.position =</span> <span class="st">"none"</span>) <span class="sc">+</span></span>
+<span id="cb5-8"><a href="#cb5-8" aria-hidden="true" tabindex="-1"></a>  <span class="fu">scale_fill_brewer</span>()<span class="sc">+</span></span>
+<span id="cb5-9"><a href="#cb5-9" aria-hidden="true" tabindex="-1"></a>  <span class="fu">labs</span>(</span>
+<span id="cb5-10"><a href="#cb5-10" aria-hidden="true" tabindex="-1"></a>    <span class="at">title =</span> <span class="st">"Sleep Duration by Sleep Disorder Status"</span>,</span>
+<span id="cb5-11"><a href="#cb5-11" aria-hidden="true" tabindex="-1"></a>    <span class="at">x =</span> <span class="st">"Sleep Disorder"</span>,</span>
+<span id="cb5-12"><a href="#cb5-12" aria-hidden="true" tabindex="-1"></a>    <span class="at">y =</span> <span class="st">"Sleep Duration"</span></span>
+<span id="cb5-13"><a href="#cb5-13" aria-hidden="true" tabindex="-1"></a>  )</span></code></pre></div><button title="Copy to Clipboard" class="code-copy-button"><i class="bi"></i></button></div>
 <div class="cell-output-display">
 <div>
 <figure class="figure">
@@ -387,7 +378,7 @@ pre > code.sourceCode > span > a:first-child::before { text-decoration: underlin
 </div>
 </div>
 </div>
-<p>Interpretation: This boxplot shows that people without a sleep disorder typically have longer and more consistent sleep duration than those with insomnia, whose sleep duration is both shorter and tightly clustered around a lower median. Individuals with sleep apnea display the greatest variability in sleep duration, indicating their sleep patterns may be less predictable despite some reporting relatively long sleep duration. A boxplot was chosen because it summarizes the distribution of sleep duration within each sleep disorder by showing medians and range.</p>
+<p><strong>Interpretation:</strong> This boxplot shows that people without a sleep disorder typically have longer and more consistent sleep duration than those with insomnia, whose sleep duration is both shorter and tightly clustered around a lower median. Individuals with sleep apnea display the greatest variability in sleep duration, indicating their sleep patterns may be less predictable despite some reporting relatively long sleep duration. A boxplot was chosen because it summarizes the distribution of sleep duration within each sleep disorder by showing medians and range.</p>
 </section>
 </section>
 <section id="conclusion" class="level2">

diff --git a/docs/index.html b/docs/index.html
@@ -204,7 +204,7 @@ window.Quarto = {
 
 <div class="quarto-listing quarto-listing-container-default" id="listing-listing">
 <div class="list quarto-listing-default">
-<div class="quarto-post image-right" data-index="0" data-categories="YW5hbHlzaXM=" data-listing-date-sort="1777867200000" data-listing-file-modified-sort="1777861319605" data-listing-date-modified-sort="NaN" data-listing-reading-time-sort="8" data-listing-word-count-sort="1579">
+<div class="quarto-post image-right" data-index="0" data-categories="YW5hbHlzaXM=" data-listing-date-sort="1777867200000" data-listing-file-modified-sort="1777862595496" data-listing-date-modified-sort="NaN" data-listing-reading-time-sort="8" data-listing-word-count-sort="1584">
 <div class="thumbnail"><a href="./posts/blog-post-final/index.html" class="no-external">
 
 <p class="card-img-top"><img src="posts/blog-post-final/index_files/figure-html/unnamed-chunk-3-1.png"  class="thumbnail-image card-img"/></p>
